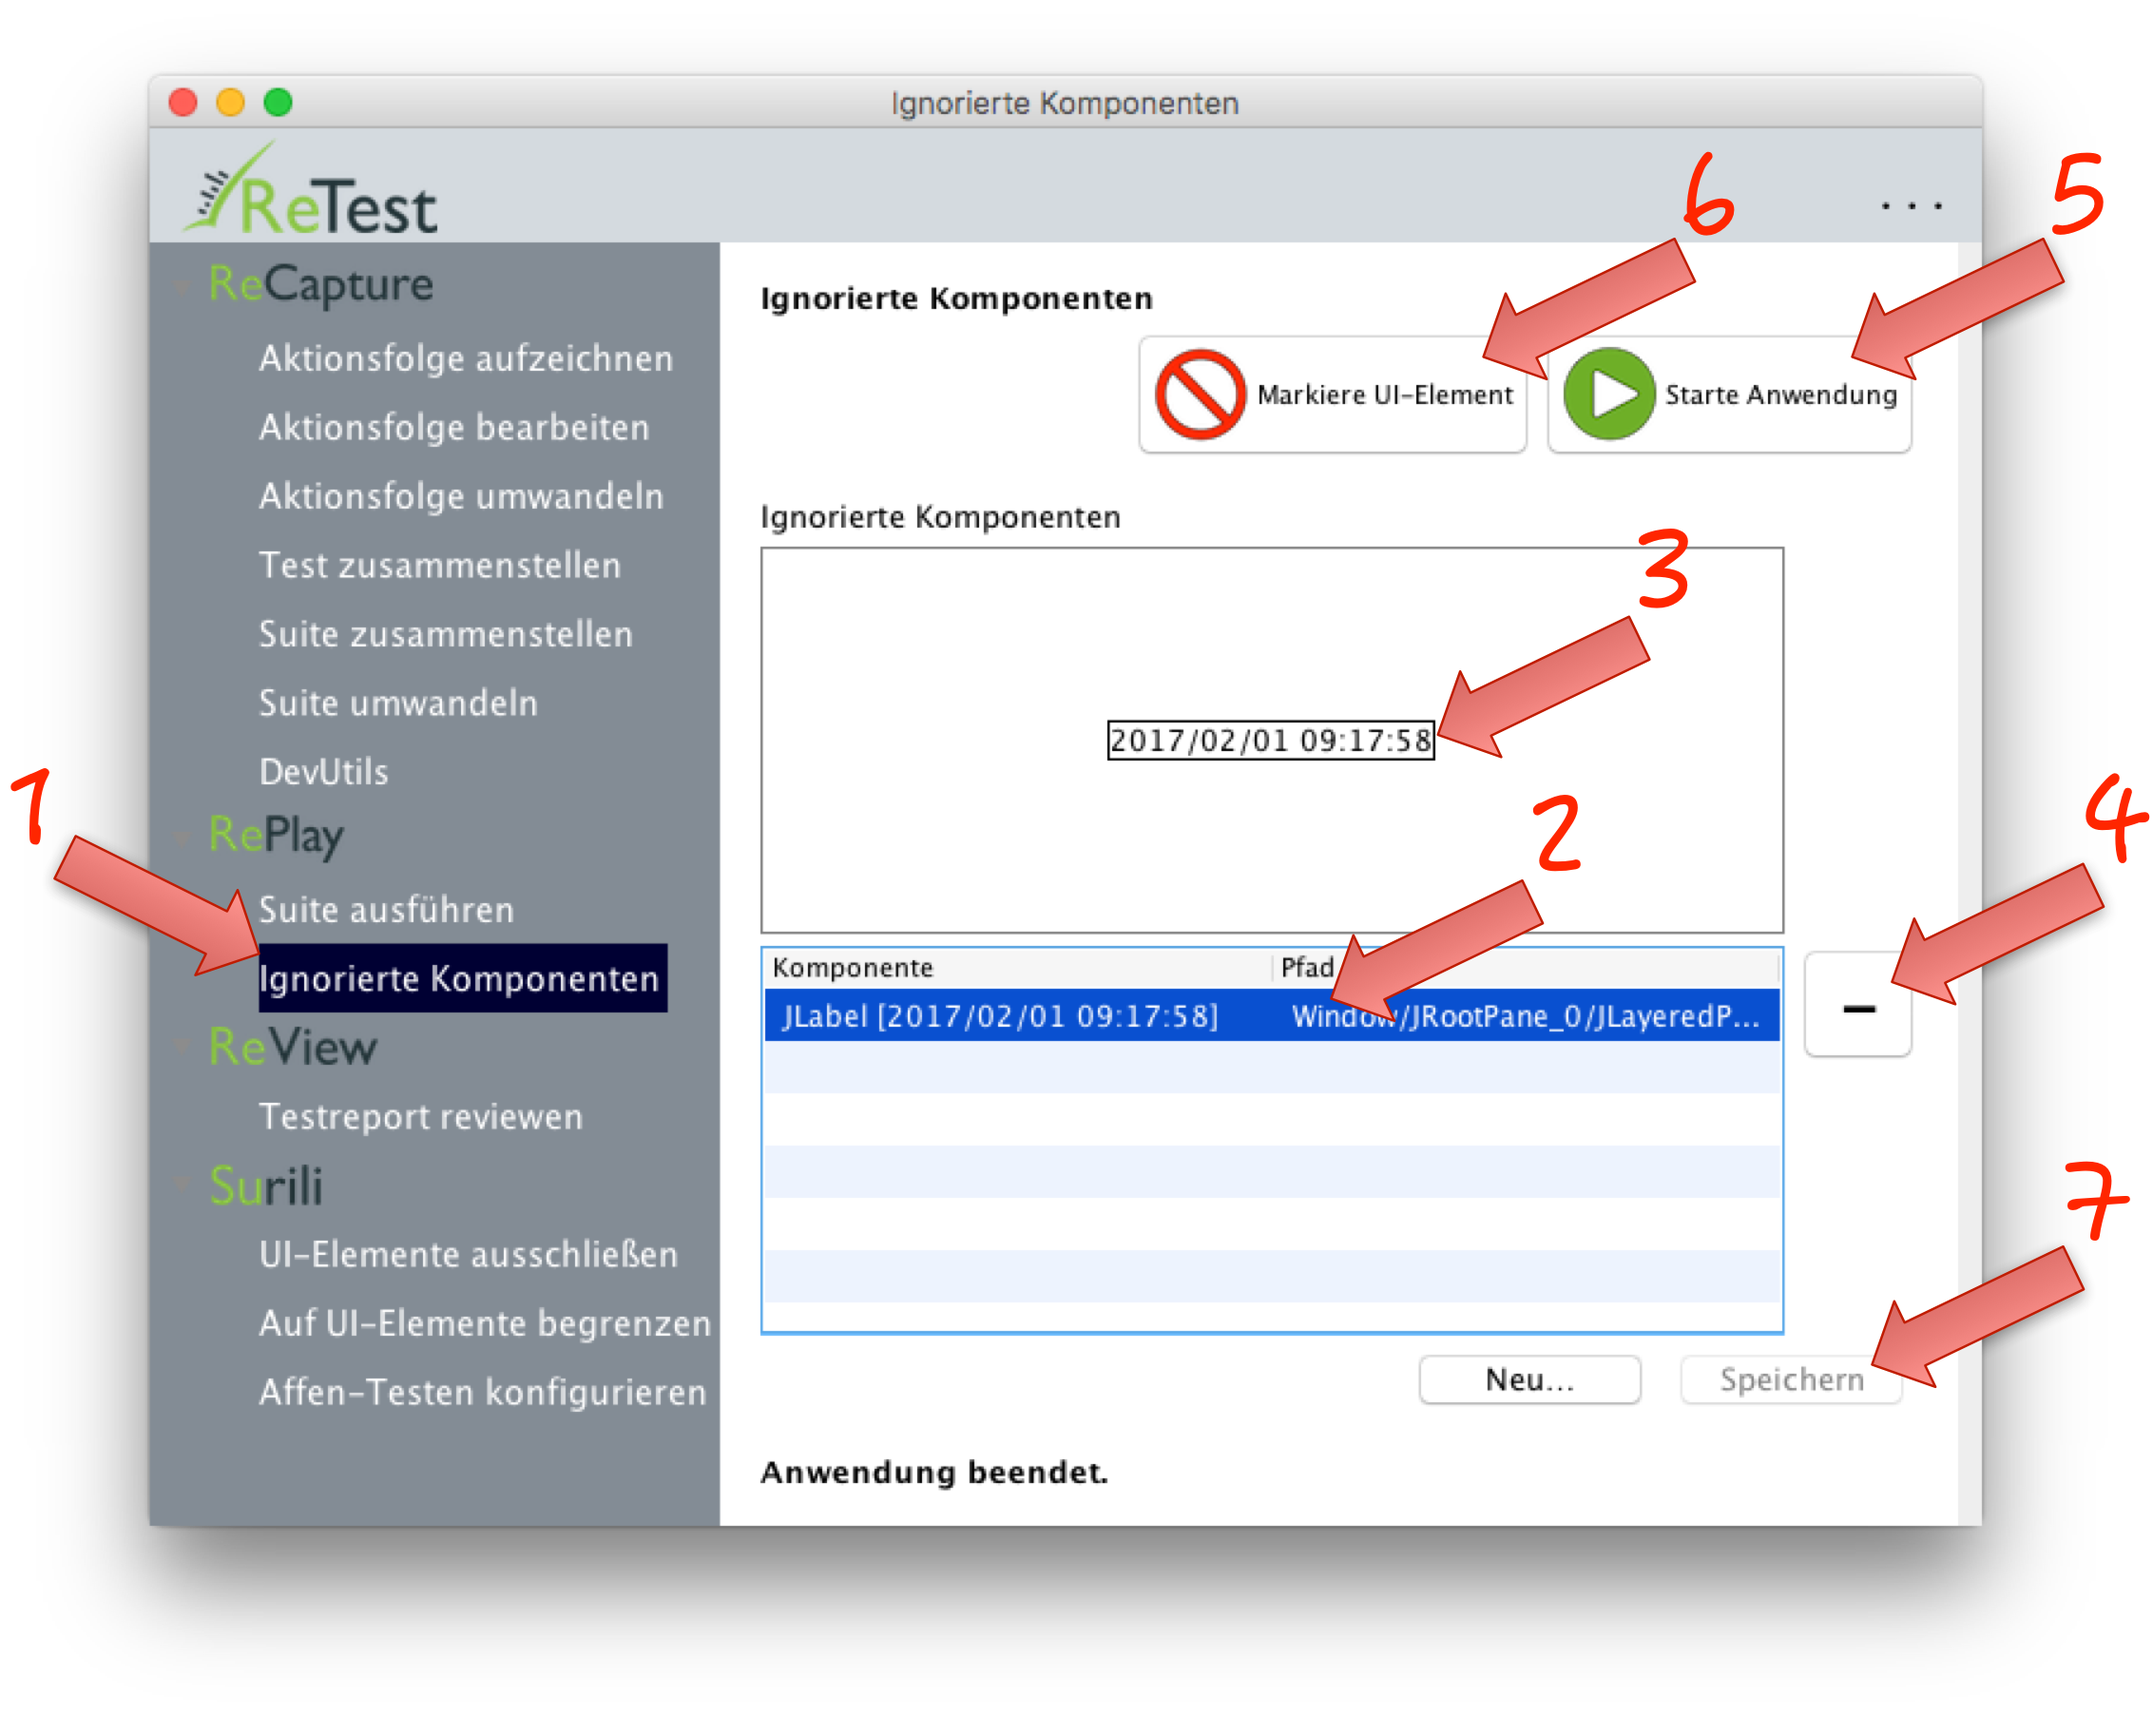
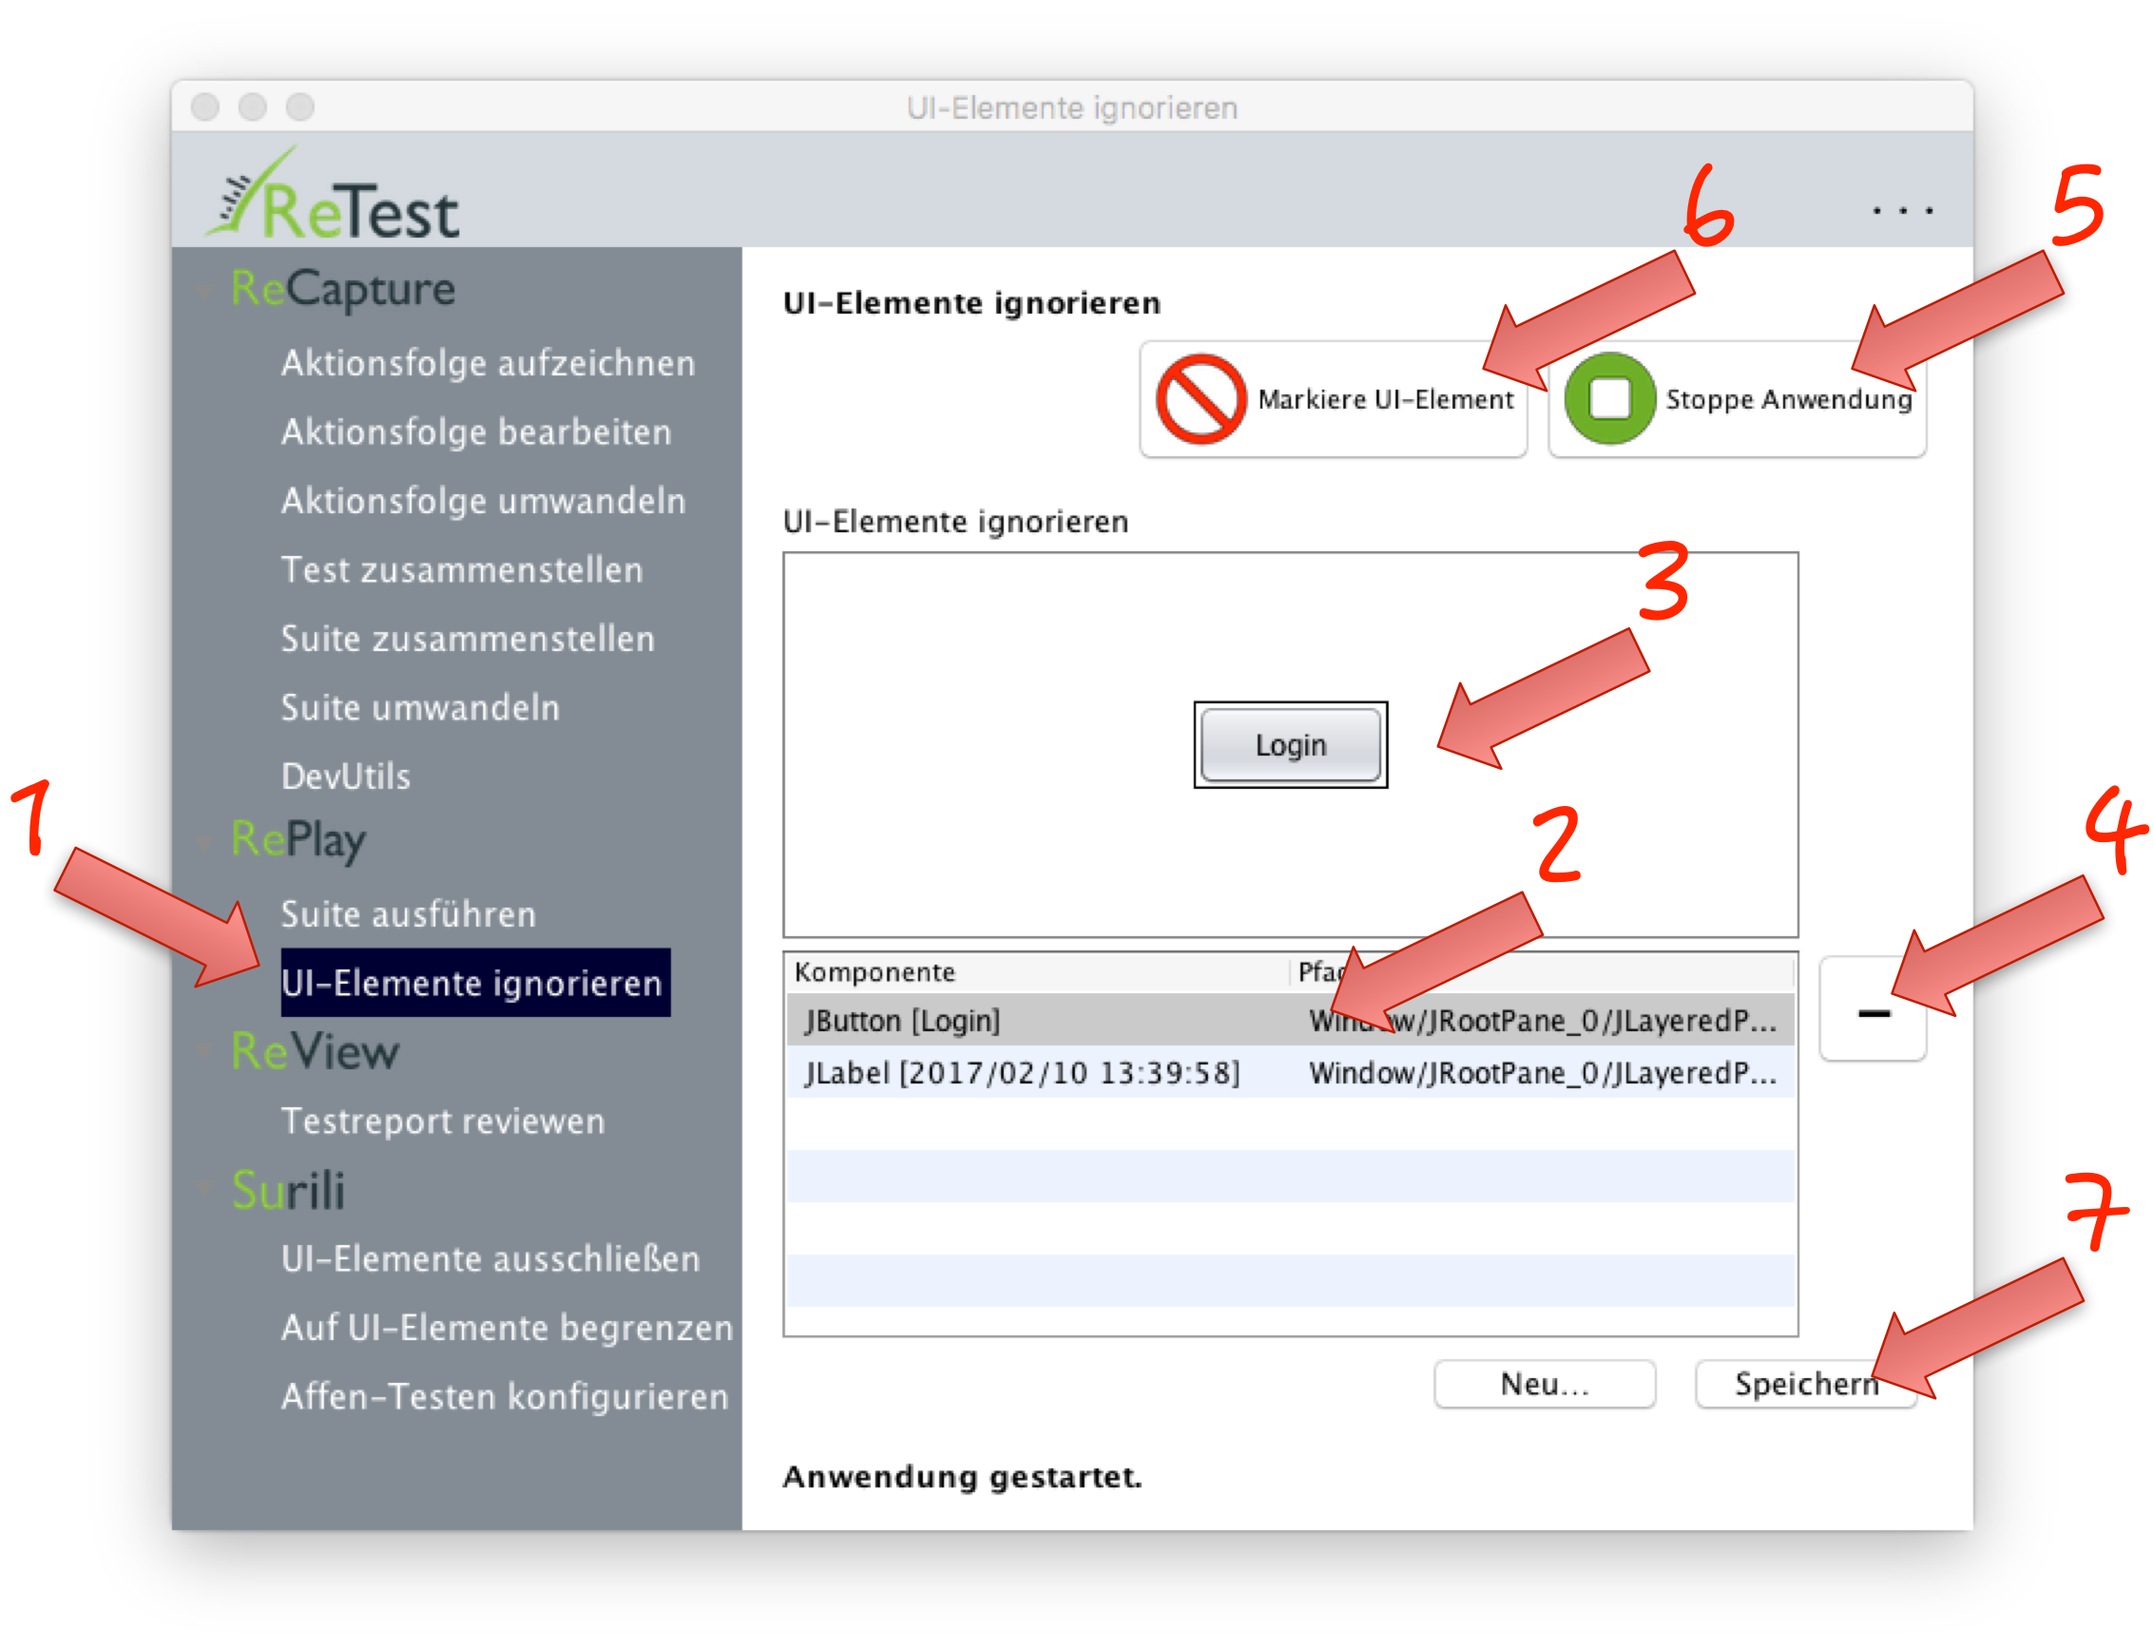
Fix different small typos and add second screenshot

Changed region(s): [[0.0, 0.0311, 1.0, 0.9337]]

diff --git a/de/replay/ui-elemente-ignorieren.md b/de/replay/ui-elemente-ignorieren.md
@@ -3,7 +3,7 @@ UI-Elemente ignorieren
 
 ReTest erlaubt es auch UI-Elemente dauerthaft zu ignorieren.
 
-![Warning](../../icons/warning.png) Achtung: Unterschiede in ignorierten UI-Elemente *und allen Kind-Elementen* werden dauerhaft ausgeblendet.
+![Warning](../../icons/warning.png) Achtung: Unterschiede in ignorierten UI-Elemente *und allen Kind-Elementen* werden beim Ausführen einer Suite nicht mehr überprüft!
 
 Dazu kann man entweder nach der Ausführung einer Suite [beim Review die Elemente ignorieren](../review/ui-elemente-ignorieren.md)
 oder diese bereits vorher in der Anwendung markieren.
@@ -14,6 +14,13 @@ Außerdem kann man prüfen, welche UI-Elemente derzeit ignoriert werden.
 Dazu klicken Sie im Menü auf "UI-Elemente ignorieren" (1).
 In der Tabelle sehen Sie alle UI-Elemente die derzeit ignoriert werden (2).
 Wenn Sie auf eines klicken, so wird im Feld darüber ein Screenshot von diesem Element geladen (3).
-Durch einen Klick auf das Minus-Symbol können Sie UI-Elemente entfernen – diese werden dann künftig wieder überprüft.
+Durch einen Klick auf das Minus-Symbol (4) können Sie UI-Elemente entfernen – diese werden dann künftig wieder überprüft.
 
+Sie können zusätzliche UI-Elemente hinzufügen, indem sie Ihre Anwendung mit einem Klick auf "Starte Anwendung" (5) starten, 
+und dann mit einem Klick auf "Markiere UI-Element" in den Markierungsmodus wechseln (6).
 
+![GUI Screenshot UI-Elemente markieren](ui-elemente-ignorieren-2.png)
+
+In diesem Modus werden derzeit ignorierte UI-Elemente grau markiert.
+Zusätzlich kann durch einen Klick auf ein UI-Element dieses ebenfalls markiert und in der Tabelle hinzugefügt werden.
+Alle Änderungen durch Hinzufügen oder Entfernen ignorierter UI-Elemente muss mit einem Klick auf "Speichern" (7) bestätigt werden.

diff --git a/de/review/ui-elemente-ignorieren.md b/de/review/ui-elemente-ignorieren.md
@@ -14,6 +14,6 @@ oder es im Nachgang beim [Reviewen der Ergebnisse](index.md) markieren.
 
 Dazu muss man entweder in der Tabelle auf das Element klicken oder das Element in der Baumansicht auswählen.
 
-![Warning](../../icons/warning.png) Achtung: Unterschiede in ignorierten Elementen *und allen Kind-Elementen* werden dauerhaft ausgeblendet.
+![Warning](../../icons/warning.png) Achtung: Unterschiede in ignorierten UI-Elemente *und allen Kind-Elementen* werden beim Ausführen einer Suite nicht mehr überprüft!
 
 Man kann sich sich auch jederzeit [anschauen](../replay/ui-elemente-ignorieren.md), welche Elemente derzeit ignoriert werden.

diff --git a/de/index.md b/de/index.md
@@ -21,7 +21,7 @@ Die Nutzer-Dokumentation von ReTest gliedert sich in die technische Dokumentatio
      1. [Suite umwandeln](recapture/suite-umwandeln.md)
 1. RePlay
      1. [Suite ausführen](replay/suite-ausfuehren.md)
-     1. [UI-Elemente Ignorieren](elemente-ignorieren.md)
+     1. [UI-Elemente Ignorieren](replay/ui-elemente-ignorieren.md)
 1. ReView
      1. [Testreport reviewen](review/index.md)
 1. Surili
